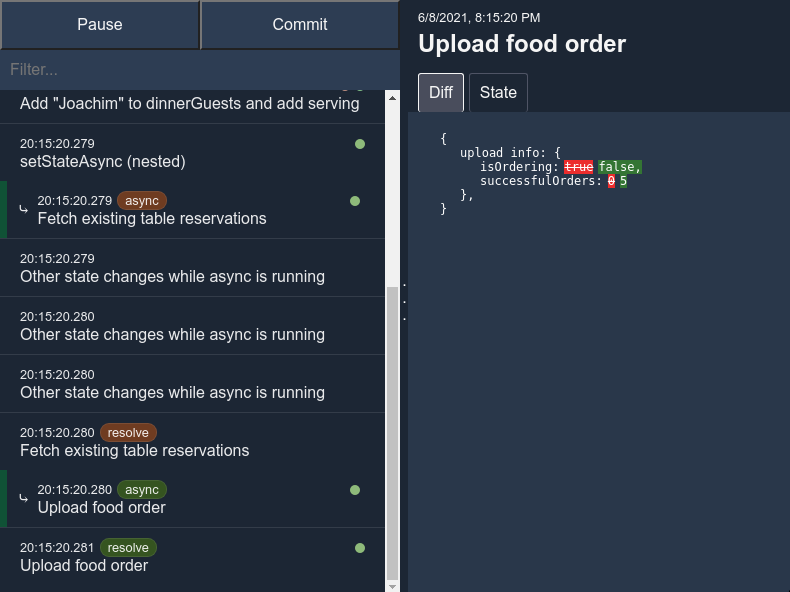
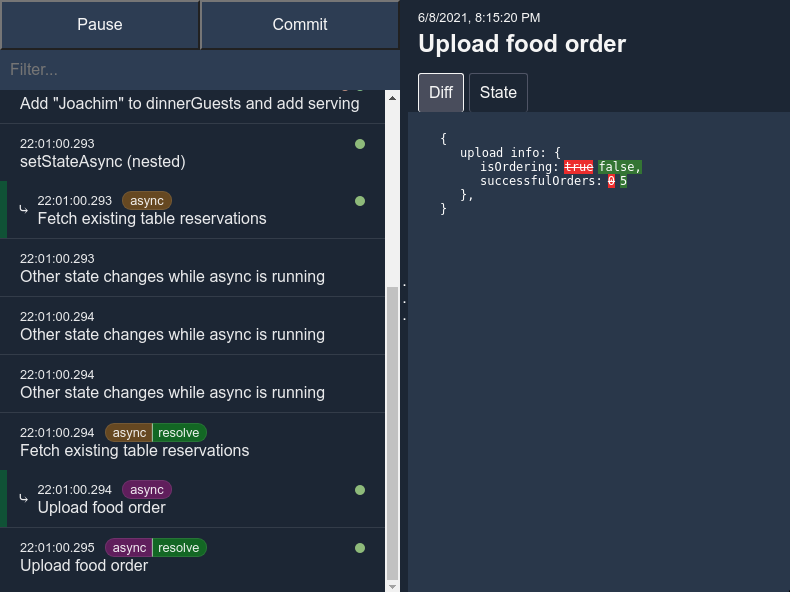
update root readme template.

diff --git a/readme-template.md b/readme-template.md
@@ -201,7 +201,7 @@ Since Diffx is proxy-based, it will keep track of both mutations and reassignmen
 import { setState } from '@diffx/core';
 import { clickCounter, users } from './createState-in-depth-docs';
 
-setState('mess with the counter and add a user', () => {
+setState('Change the counter and add a user', () => {
     clickCounter.count++;
     if (clickCounter.count > 2) {
         clickCounter.count = 200;
@@ -237,7 +237,7 @@ import { clickCounter, users } from './createState-in-depth-docs';
 const addUser = (name) => setState('add user', () => users.names.push('John'));
 const incrementCounter = () => setState('increment counter', () => clickCounter.count++);
 
-setState('mess with the counter and add a user', () => {
+setState('Change the counter and add a user', () => {
     incrementCounter();
     if (clickCounter.count > 2) {
         clickCounter.count = 200;
@@ -262,7 +262,7 @@ tracking of async state in Diffx devtools).
 import { createState, setState } from '@diffx/core';
 import { fetchUsersFromServer } from './some-file';
 
-export const users = createState('users', {
+export const users = createState('users-status', {
     isFetching: false,
     names: [],
     fetchErrorMessage: ''
@@ -368,17 +368,21 @@ unwatchFunc();
 The `watchState()` function can also watch projections of state or multiple states
 
 Projection of state:
+
 ```javascript
+import { watchState } from '@diffx/core';
 import { clickCounter } from './createState-example-above';
 
 watchState(
-    () => clickCounter > 5,
+    () => clickCounter.count > 5,
     isAboveFive => console.log(isAboveFive)
 );
 ```
 
 Multiple states (which is actually just a projection of state):
+
 ```javascript
+import { watchState } from '@diffx/core';
 import { clickCounter, users } from './createState-in-depth-docs';
 
 watchState(
@@ -386,6 +390,24 @@ watchState(
     ([clickCount, names]) => console.log(clickCount, names)
 );
 ```
+
+If a watcher changes state, this will also be tracked in the devtools:
+
+```javascript
+import { watchState, setState } from '@diffx/core';
+import { clickCounter, users } from './createState-in-depth-docs';
+
+watchState(
+    () => clickCounter.count === 5,
+    countIsFive => {
+        if (!countIsFive) return;
+        setState('counter has the value 5, so I added another user', () => {
+            users.names.push('Jenny');
+        });
+    }
+);
+```
+
 </details>
 
 ### destroyState()
@@ -414,7 +436,7 @@ Diffx devtools is made to give insights into
 * What caused the change
 
 The extension will show up as a tab in the browser devtools when it detects that the page is using Diffx, and the
-devtools flag is set to true [(see setDiffxOptions)](#setdiffxoptions).
+devtools option is set to `true` [(see setDiffxOptions)](#setdiffxoptions).
 
 ![Devtools location](./assets/devtools-7.png)
 
@@ -451,10 +473,24 @@ used for displaying nesting depth.
 ### Tracing async setState
 
 For operations done with `setState()`, the left pane will display an `async` tag where the operation starts, and
-a `resolved` tag where the async operation finished.  
+a `resolve`/`reject`  tag where the async operation finished.  
 These tags are highlighted with a color to make it easier to spot and are also clickable to filter by.
 
 ![setState preview](./assets/devtools-3.png)
+
+### Tracing state changed in watchState
+
+If a `watchState()` runs `setState()`, the left pane will display a `watcher` tag to indicate that the change was
+triggered.
+
+![watchState tracing preview 1](./assets/devtools-8.png)
+
+The `watcher` tag can be hovered to see which state change triggered it.
+
+![watchState tracing preview 2](./assets/devtools-9.png)
+
+To see where in the code the watcher was run, enable `includeStackTrace` in [setDiffxOptions](#setdiffxoptions) and open
+the Stacktrace tab for the entry tagged with the `watcher`.
 
 ## Diffx compared to other state management libraries
 
